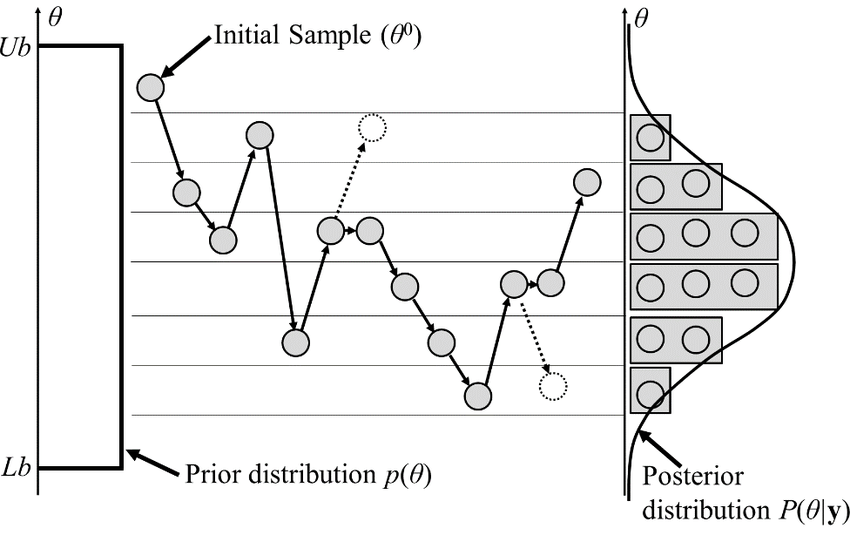
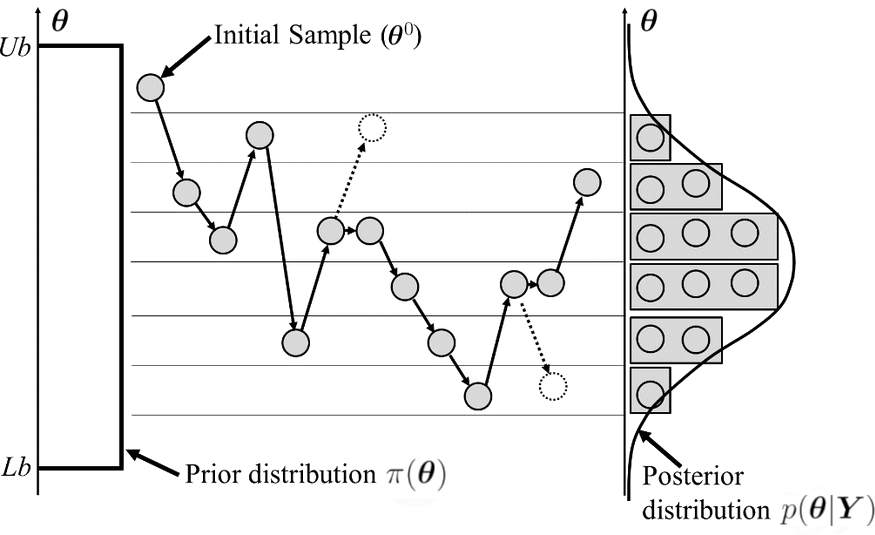
Modify the MH illustration

Changed region(s): [[0.1224, 0.0, 1.0, 0.9869], [0.0, 0.0, 0.0918, 0.9271], [0.1835, 0.8673, 0.52, 0.9271]]

diff --git a/theory/theory.tex b/theory/theory.tex
@@ -425,8 +425,8 @@ to obtain the \textit{posterior} distribution $p(\bm{\theta} | \bm{Y})$:
 		\propto \mathcal{L}(\bm{Y} | \bm{\theta}) \pi(\bm{\theta})
 		\\
 	m(\bm{Y})
-		&= \int_{\Theta} \mathcal{L}(\bm{Y} | \bm{\theta'}
-		\cdot \pi(\bm{\theta'}) d\theta'
+		&= \int_{\Theta} \mathcal{L}(\bm{Y} | \bm{\theta'})
+		\pi(\bm{\theta'}) d\theta'
 \end{align}
 where $m(\bm{Y})$ is the marginal likelihood or \textit{evidence} of $\bm{Y}$
 over the entire parameter space $\Theta$.
@@ -468,21 +468,21 @@ the distribution of those elements approximates the posterior.
 
 \begin{figure}
 	\centering
-	\includegraphics[width=0.8\textwidth]{sfigs/metropolis-hastings.png}
+	\includegraphics[width=0.85\textwidth]{sfigs/metropolis-hastings.png}
 	\caption{
 		Example of the Metropolis-Hastings algorithm in the Bayesian framework
 		sampling a normal one-dimensional posterior distribution,
 		where the prior is a uniform distribution.
-		% TODO: cite
+		\textit{Reproduced from Lee et al. \cite{lee2015}.}
 	}
 	\label{fig:mh}
 \end{figure}
 
 One of the most foundational MCMC algorithms is Metropolis-Hastings.
-It starts with picking an initial parameter value $\theta^t = \theta^0$
-at step $t = 0$.
-At each iteration $t$, a candidate parameter $\theta^*$ is proposed
-from a transition (or proposal) distribution $q(\theta^* | \theta^t)$.
+It starts with picking an initial parameter value
+$\bm{\theta}^t = \bm{\theta}^0$ at step $t = 0$.
+At each iteration $t$, a candidate parameter $\bm{\theta}^*$ is proposed
+from a transition (or proposal) distribution $q(\bm{\theta}^* | \bm{\theta}^t)$.
 The candidate is accepted with probability $\alpha$:
 \begin{align}
 	\alpha
@@ -512,7 +512,7 @@ is shown in Figure \ref{fig:mh}.
 
 After a sufficient number of iterations $t = B$,
 known as the \textit{burn-in} period,
-the samples {$\theta^{B+1}, \ldots, \theta^T$}
+the samples {$\bm{\theta}^{B+1}, \ldots, \bm{\theta}^T$}
 can be treated as draws from the posterior.
 These samples are then used to estimate various statistics,
 such as the posterior mean, variance, or credible intervals:

diff --git a/intro/intro.tex b/intro/intro.tex
@@ -402,8 +402,6 @@ the swelling calculations of higher-length-scale models more rigorous.
 
 \subsection{Fission-Gas-Behavior Parameters in DART}
 
-% TODO: citation needed
-
 The current understanding of the U-Mo fuel behavior is encapsulated
 in the rate-theory-based computational code
 Dispersion Analysis Research Tool (DART),
